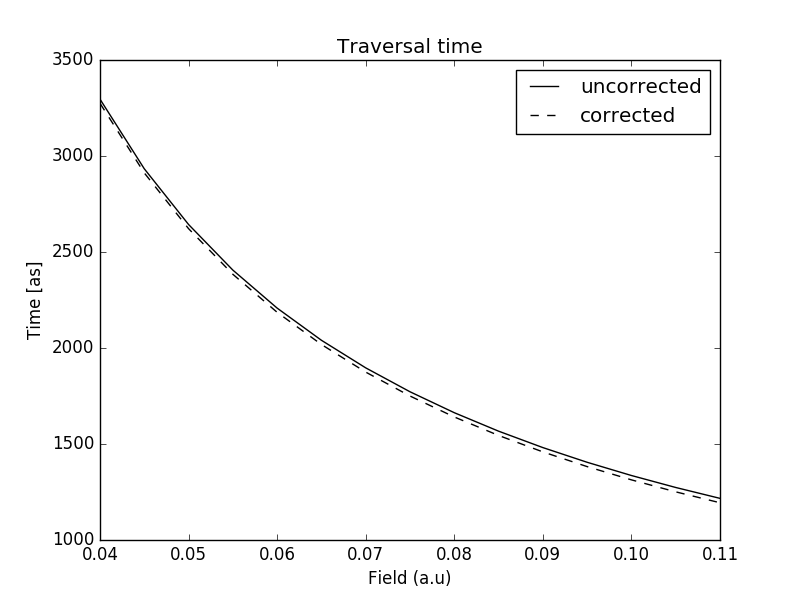
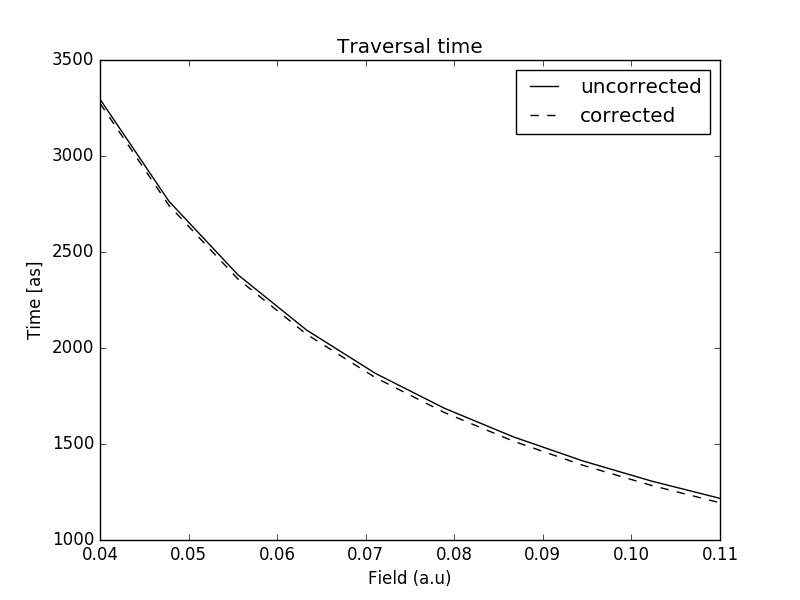
exact test

diff --git a/Times/Dwell/dwell_time.py b/Times/Dwell/dwell_time.py
@@ -15,9 +15,8 @@ mu=1 #a.u.
 hbar=1 #a.u.
 Z=2
 
-Factor=24.18884
+Factor=24.18884 #time[as]/a.u.
 
-#F=0
 
 
 def I(F):
@@ -26,30 +25,25 @@ def I(F):
 
 def potential(n):
     
-    
-    ro=1/(2*Z)
-    
-    b2=(Z-1)-(1+m)*np.sqrt(2*I(F))/2.0
+    b2=(Z-1)-(1+m)*np.sqrt(I(F)/2)
     
     t1= b2/(2*n)
     
     t2= n*F/8
     
-    t3= (m**2-1)/(8*n**2)
+    t3= (m**2-1)/(8*pow(n,2))
     
-    t4=  np.exp(-3/n) * (alphaI*F/n**2)
+    t4=  (alphaI*F/n**2) * np.exp(-3/n)
     
-    t5= 0
     
-    return -t1 - t2 + t3 + t4 - t5 +I(F)/4.0
+    return -t1 - t2 + t3 + t4  +I(F)/4.0
 
 
 def potential_schro(n):
     
-    
     ro=1/(2*Z)
     
-    b2=(Z-1)-(1+m)*np.sqrt(2*I(F))/2.0
+    b2=(Z-1)-(1+m)*np.sqrt(I(F)/2)
     
     t1= b2/(2*n)
     
@@ -57,7 +51,7 @@ def potential_schro(n):
     
     t3= (m**2-1)/(8*n**2)
     
-    t4=  np.exp(-3/n) * (alphaI*F/n**2)
+    t4=   (alphaI*F/n**2) * np.exp(-3/n)
     
     t5= (1/n +1/(4*ro))*np.exp(-n/(2*ro))
     
@@ -72,33 +66,42 @@ def kappa(n):
     
     return np.sqrt(2*mu*potential(n))/hbar
 
-'''
-F=0.01
-n=np.linspace(0.1,60,1000)
-plt.plot(n,potential_schro(n))
-plt.ylim(-0.5,0.5)
-plt.show()
-'''
+def k():
+    return np.sqrt(2*mu*I(F)/4)/hbar
+
+
 
 '''
 -----------------------------FINDING THE TURNING POINTS-----------------------------
 '''
 
 #f=np.linspace(0.1,0.8,15)
-f=np.linspace(0.04,0.11,15)
+f=np.linspace(0.04,0.11,10)
 
-Turning_C=[]
-Turning=[]
+Turning_C=[]#Turning points of corrected function
+Turning=[]#Turning points of uncorrected function
 FILE=open("turning_points.txt","w")
 FILE.write("#F T1C T2C T1 T2 \n")
 for i in f:
     F=i
-    Turning_C.append([F,brentq(potential_schro,0.1,2),brentq(potential_schro,2,50)])
+    Turning_C.append([F,brentq(potential_schro,0.1,2),brentq(potential_schro,10,50)])
     
-    Turning.append([F,brentq(potential,0.1,2),brentq(potential,2,50)])
+    Turning.append([F,brentq(potential,0.1,2),brentq(potential,10,50)])
     
     FILE.write(str(F)+" "+str(Turning_C[-1][1])+" "+str(Turning_C[-1][2])+" "+ str(Turning[-1][1])+" "+str(Turning[-1][2])+"\n")
     
+    if(abs(potential_schro(Turning_C[-1][1])>1E-14)):
+        print("Turning problem! in C1",str(F), potential_schro(Turning_C[-1][1]))
+    
+    if(abs(potential_schro(Turning_C[-1][2])>1E-14)):
+        print("Turning problem! in C2",str(F),potential_schro(Turning_C[-1][2]))
+
+    if(abs(potential(Turning[-1][1])>1E-14)):
+        print("Turning problem! in 1",str(F),potential(Turning[-1][1]))
+
+    if(abs(potential(Turning[-1][2])>1E-14)):
+        print("Turning problem! in 2",str(F),potential(Turning[-1][2]))
+
     #print(F,Turning_C[-1][1],Turning_C[-1][2],Turning[-1][1],Turning[-1][2])
     
     #print(potential_schro(Turning_C[-1][1]),potential_schro(Turning_C[-1][2]),potential(Turning[-1][1]),potential(Turning[-1][2]),"\n")
@@ -170,6 +173,9 @@ for i in range(len(f)):
     Time.append(Factor*quad(func,T1,T2)[0]/exponencial)
     Time_C.append(Factor*quad(func_C,T1_C,T2_C)[0]/exponencial_C)
 
+    print(i)
+
+
 
 
 plt.plot(f,Time,"k",label="uncorrected")
@@ -210,7 +216,6 @@ for i in range(len(f)):
     T_C.append(Factor*quad(func_C,T1_C,T2_C)[0])
 
 
-
 plt.plot(f,T,"k",label="uncorrected")
 plt.plot(f,T_C,"k--",label="corrected")
 plt.ylabel("Time [as]")
@@ -225,15 +230,28 @@ plt.close()
 W_alex=[8.73,10.19,11.96,13.55,15.76,17.22,19.08,20.85]
 T_alex=[34.30,39.83,46.29,51.85,60.15,65.68,73.04,79.50]
 
+plt.plot(W,f,label="Width with uncorrected")
+plt.plot(W_C,f,label="Width with corrected")
+plt.xlabel("Barrier width")
+plt.ylabel("Field")
+plt.legend()
+plt.show()
+plt.close()
 
-#plt.plot(W,T,label="Unconrrected")
-#plt.plot(W_C,T_C,label="Corrected")
+
+
+plt.plot(W,Time,label="Unconrrected")
+plt.plot(W_C,Time_C,label="Corrected")
 plt.plot(W_alex,T_alex,label="Alex")
 plt.xlabel("Barrier width")
 plt.ylabel("Time[as]")
 plt.legend()
 plt.show()
 plt.close()
+
+
+
+
 
 
 

diff --git a/Times/Dwell/Exact_comparisson.py b/Times/Dwell/Exact_comparisson.py
@@ -1,0 +1,158 @@
+import numpy as np
+import matplotlib.pyplot as plt
+from scipy.optimize import brentq
+from scipy.integrate import quad, dblquad
+
+
+
+alphaI=0.28125
+alphaN=1.38
+m=0
+Io=0.904
+B=0.51/2
+
+mu=1 #a.u.
+hbar=1 #a.u.
+Z=2
+
+Factor=24.18884 #time[as]/a.u.
+
+def I(F):
+    
+    return Io + ((alphaN-alphaI)*F**2)/(2)
+
+def potential(n):
+    
+    b2=(Z-1)-(1+m)*np.sqrt(I(F)/2)
+    
+    t1= b2/(2*n)
+    
+    t2= n*F/8
+    
+    t3= (m**2-1)/(8*pow(n,2))
+    
+    t4=  (alphaI*F/n**2) * np.exp(-3/n)
+    
+    
+    return -t1 - t2 + t3 + t4  +I(F)/4.0
+
+
+def potential_schro(n):
+    
+    ro=1/(2*Z)
+    
+    b2=(Z-1)-(1+m)*np.sqrt(I(F)/2)
+    
+    t1= b2/(2*n)
+    
+    t2= n*F/8
+    
+    t3= (m**2-1)/(8*n**2)
+    
+    t4=   (alphaI*F/n**2) * np.exp(-3/n)
+    
+    t5= (1/n +1/(4*ro))*np.exp(-n/(2*ro))
+    
+    
+    return -t1 - t2 + t3 + t4 - t5 +I(F)/4.0
+
+def kappa_C(n):
+    
+    return np.sqrt(2*mu*potential_schro(n))/hbar
+
+def kappa(n):
+    
+    return np.sqrt(2*mu*potential(n))/hbar
+
+def kf():
+    return np.sqrt(2*mu*I(F)/4)/hbar
+def kf_v(max):
+    return np.sqrt(2*mu*abs(max))/hbar
+
+
+'''
+    -----------------------------FINDING THE TURNING POINTS-----------------------------
+    '''
+
+#f=np.linspace(0.1,0.8,15)
+f=np.linspace(0.04,0.11,10)
+
+Turning_C=[]#Turning points of corrected function
+Turning=[]#Turning points of uncorrected function
+
+for i in f:
+    
+    F=i
+    
+    Turning_C.append([F,brentq(potential_schro,0.1,2),brentq(potential_schro,10,50)])
+    
+    Turning.append([F,brentq(potential,0.1,2),brentq(potential,10,50)])
+    
+
+'''
+    -----------------------------INTEGRATING-----------------------------
+    '''
+
+W=[]
+W_C=[]
+Max=[]
+Max_C=[]
+n=np.linspace(0.01,0.12,10)
+
+for i in range(len(f)):
+    
+    F=f[i]
+    
+    T1=Turning[i][1]
+    T2=Turning[i][2]
+    W.append(T2-T1)
+    Max.append(max(potential(n))+1)
+    
+    T1_C=Turning_C[i][1]
+    T2_C=Turning_C[i][2]
+    W_C.append(T2_C-T1_C)
+    Max_C.append(max(potential_schro(n))+1)
+
+
+    
+Time_E=[]
+Time_C=[]
+
+for i in range(len(f)):
+    
+    F=f[i]
+    a=W[i]
+    k=kf()
+    p=kf_v(Max[i])
+
+    a=W[i]
+
+    T_res=2*mu*(k*(p**2-k**2)*a+(k*(p**2+k**2)/(2*p))*np.sinh(2*p*a))/ (((p**2+k**2)*np.cosh(p*a))**2 -(p**2-k**2)**2 )
+    Time_E.append(Factor*T_res)
+
+
+plt.plot(f,Time_E)
+plt.ylabel("time")
+plt.xlabel("Field(a.u)")
+plt.show()
+plt.close()
+
+
+
+
+
+
+
+
+
+
+
+
+
+
+
+
+
+
+
+
